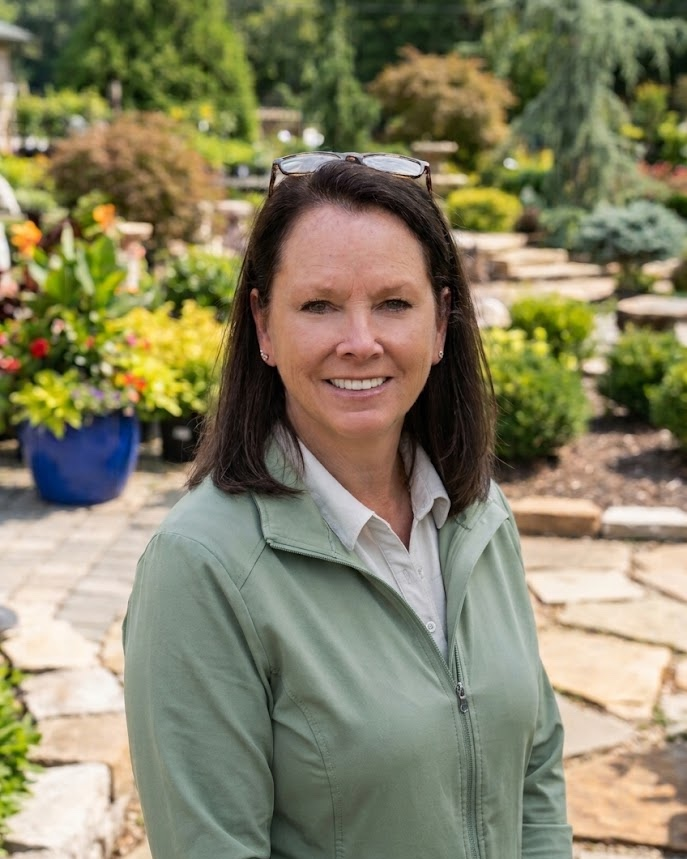
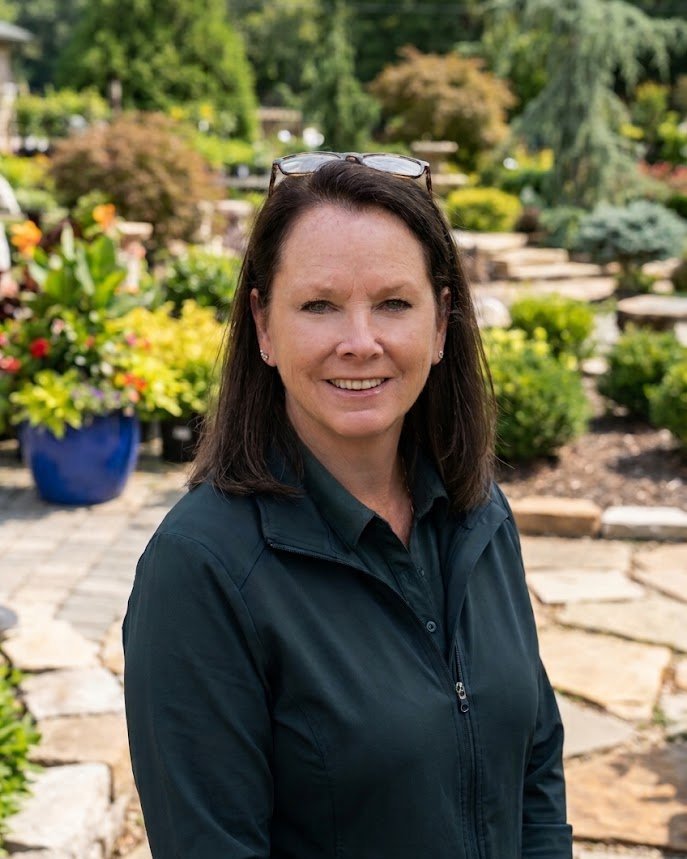
Amanda's portrait: dark green jacket version

Changed region(s): [[0.1528, 0.4843, 0.8559, 1.0], [0.4891, 0.4237, 0.5808, 0.454]]

diff --git a/index.html b/index.html
@@ -659,7 +659,7 @@ figcaption { margin-top: var(--space-2); font-size: 15px; line-height: 1.45; col
   <div class="wrap split split--flip">
     <figure class="split-media">
       <div class="duo">
-        <img width="687" height="859" src="img/about/amanda-landscape-designer-amandas-villa.jpg" alt="Amanda, owner and landscape designer at Amanda's Villa, smiling in a sage green jacket on a flagstone path in the garden center" loading="lazy">
+        <img width="687" height="859" src="img/about/amanda-landscape-designer-amandas-villa.jpg" alt="Amanda, owner and landscape designer at Amanda's Villa, smiling in a dark green jacket on a flagstone path in the garden center" loading="lazy">
         <img width="1000" height="1250" src="img/about/colton-hardscape-lead-amandas-villa.jpg" alt="Colton, hardscape lead at Amanda's Villa, smiling with his arms crossed in a blue Amanda's Villa shirt" loading="lazy">
       </div>
     </figure>

diff --git a/landscaping/index.html b/landscaping/index.html
@@ -622,7 +622,7 @@ figcaption { margin-top: var(--space-2); font-size: 15px; line-height: 1.45; col
 <section class="band band--alt">
   <div class="wrap split split--flip">
     <figure class="split-media">
-      <img width="687" height="859" src="../img/about/amanda-landscape-designer-amandas-villa.jpg" alt="Amanda, owner and landscape designer at Amanda's Villa, smiling in a sage green jacket on a flagstone path in the garden center" loading="lazy">
+      <img width="687" height="859" src="../img/about/amanda-landscape-designer-amandas-villa.jpg" alt="Amanda, owner and landscape designer at Amanda's Villa, smiling in a dark green jacket on a flagstone path in the garden center" loading="lazy">
     </figure>
     <div>
       <h2>Meet Amanda, the landscape designer who measures every yard herself</h2>

diff --git a/about/index.html b/about/index.html
@@ -572,7 +572,7 @@ figcaption { margin-top: var(--space-2); font-size: 15px; line-height: 1.45; col
 <section class="band">
   <div class="wrap split split--flip">
     <figure class="split-media">
-      <img width="687" height="859" src="../img/about/amanda-landscape-designer-amandas-villa.jpg" alt="Amanda, owner and landscape designer at Amanda's Villa, smiling in a sage green jacket on a flagstone path in the garden center" loading="lazy">
+      <img width="687" height="859" src="../img/about/amanda-landscape-designer-amandas-villa.jpg" alt="Amanda, owner and landscape designer at Amanda's Villa, smiling in a dark green jacket on a flagstone path in the garden center" loading="lazy">
     </figure>
     <div>
       <h2>Amanda designs every yard and plants it with her crew</h2>
